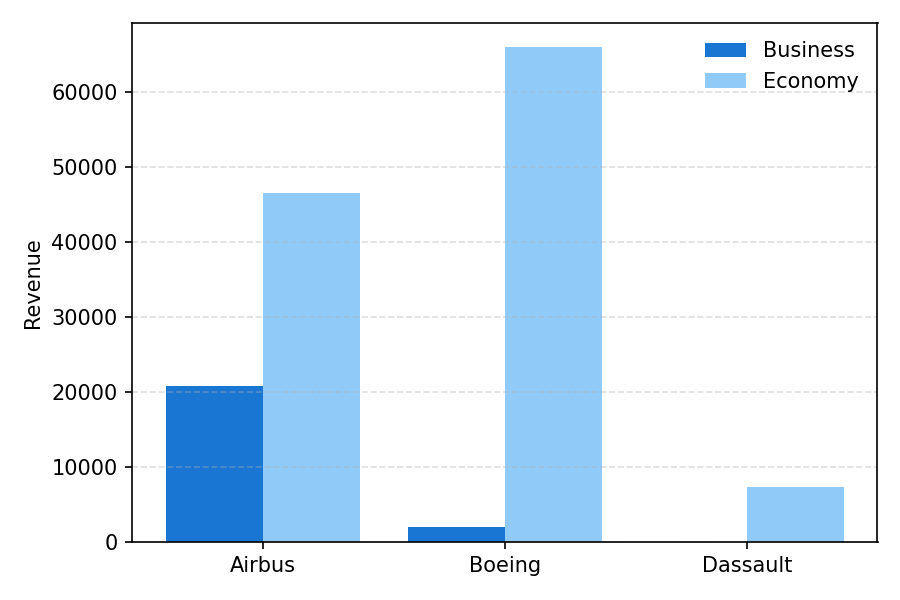
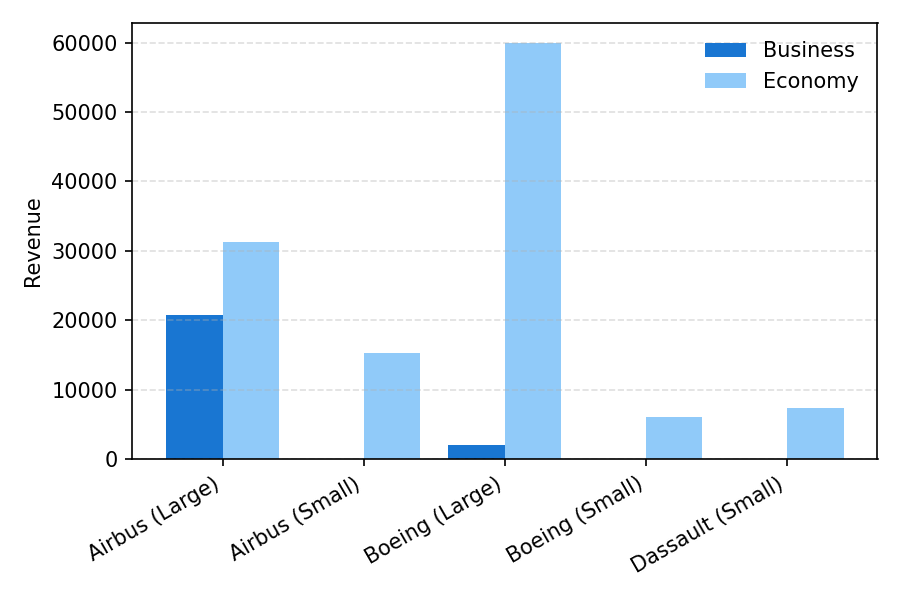
Update: report

diff --git a/reports.py b/reports.py
@@ -57,59 +57,72 @@ def report_avg_capacity():
     return avg_capacity
 
 def report_revenue():
-    import matplotlib.pyplot as plt
-    import os
-    from utils import get_connection
-
     os.makedirs("static/reports", exist_ok=True)
 
     conn = get_connection("FLYTAU")
     cursor = conn.cursor(dictionary=True)
 
     cursor.execute("""
-        SELECT
-            p.producer AS plane_producer,
-            bs.class_type AS seat_class,
-            SUM(
-                CASE
-                    WHEN bs.class_type = 'Business' THEN f.business_price
-                    WHEN bs.class_type = 'Economy'  THEN f.regular_price
-                END
-            ) AS total_revenue
+        SELECT p.size AS plane_size, p.producer AS plane_producer, bs.class_type AS seat_class,
+            SUM(CASE 
+                WHEN bs.class_type = 'Business' THEN f.business_price 
+                WHEN bs.class_type = 'Economy' THEN f.regular_price 
+            END) AS total_revenue,
+            COUNT(bs.seat_number) AS seats_sold
         FROM Booking_Seats bs
-        JOIN Orders o ON bs.order_id = o.order_id
-        JOIN Flights f ON o.flight_id = f.flight_id
-        JOIN planes p ON f.plane_id = p.plane_id
-        WHERE o.order_status = 'COMPLETED'
-        GROUP BY p.producer, bs.class_type
+        JOIN Orders o
+            ON bs.order_id = o.order_id
+        JOIN Flights f
+            ON o.flight_id = f.flight_id
+        JOIN planes p
+            ON f.plane_id = p.plane_id
+        WHERE
+            o.order_status = 'COMPLETED'
+        GROUP BY
+            p.size,
+            p.producer,
+            bs.class_type
+        ORDER BY
+            total_revenue DESC
     """)
 
     rows = cursor.fetchall()
     cursor.close()
     conn.close()
 
-    producers = sorted(set(r["plane_producer"] for r in rows))
+    categories = sorted(
+        set(f'{r["plane_producer"]} ({r["plane_size"]})' for r in rows)
+    )
+
     business = []
     economy = []
 
-    for p in producers:
+    for c in categories:
+        producer, size = c.split(" (")
+        size = size.replace(")", "")
+
         business.append(
             sum(r["total_revenue"] for r in rows
-                if r["plane_producer"] == p and r["seat_class"] == "Business")
-        )
-        economy.append(
-            sum(r["total_revenue"] for r in rows
-                if r["plane_producer"] == p and r["seat_class"] == "Economy")
+                if r["plane_producer"] == producer
+                and r["plane_size"] == size
+                and r["seat_class"] == "Business")
         )
 
-    x = range(len(producers))
+        economy.append(
+            sum(r["total_revenue"] for r in rows
+                if r["plane_producer"] == producer
+                and r["plane_size"] == size
+                and r["seat_class"] == "Economy")
+        )
+
+    x = range(len(categories))
 
     # ===== עיצוב הגרף =====
     plt.figure(figsize=(6, 4))
     plt.bar(x, business, width=0.4, label="Business", color="#1976D2")
     plt.bar([i + 0.4 for i in x], economy, width=0.4, label="Economy", color="#90CAF9")
 
-    plt.xticks([i + 0.2 for i in x], producers)
+    plt.xticks([i + 0.2 for i in x], categories, rotation=30, ha="right")
     plt.ylabel("Revenue")
     plt.legend(frameon=False)
     plt.grid(axis="y", linestyle="--", alpha=0.4)
@@ -119,6 +132,7 @@ def report_revenue():
     plt.close()
 
     return rows
+
 
 def report_employee_hours():
     from utils import get_connection
